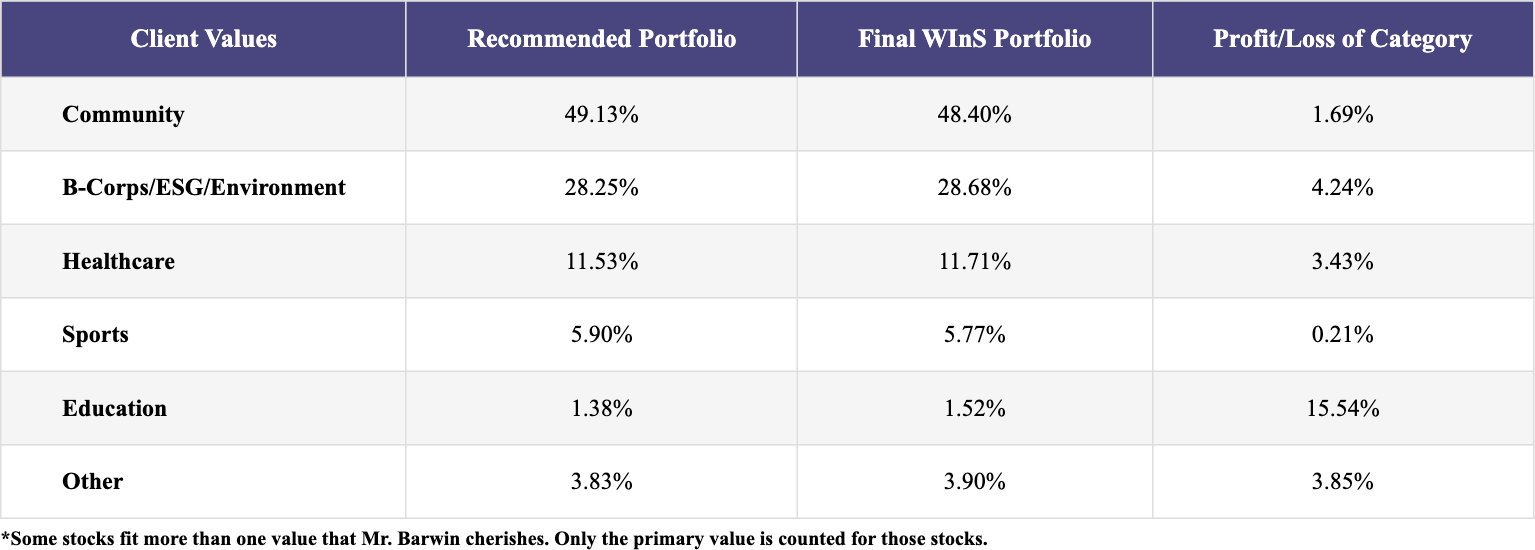
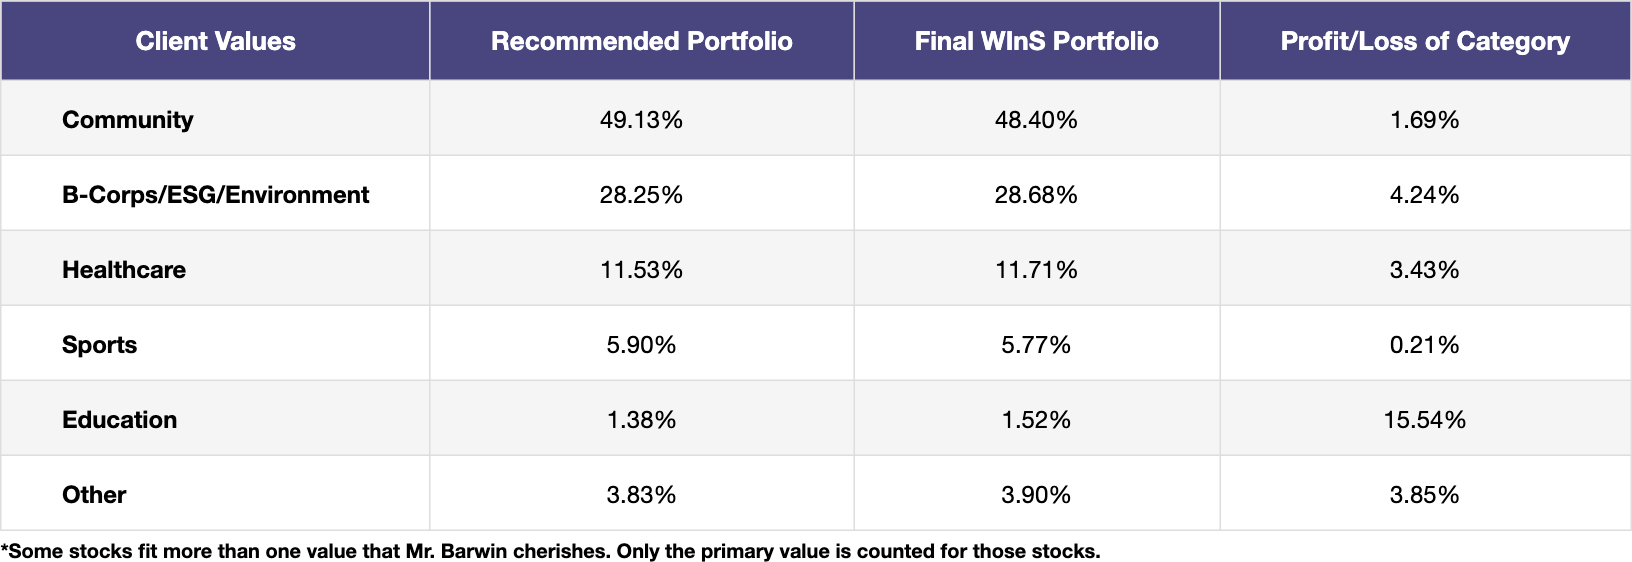
consisnet font for images

diff --git a/final-images/create_interest_table.py b/final-images/create_interest_table.py
@@ -19,8 +19,7 @@ def create_metrics_table(data, output_image='metrics_interest.png'):
     styles = [
         # Table wide settings
         {'selector': '', 'props': [
-            ('border-collapse', 'collapse'),
-            ('font-family', '"Times New Roman", Times, serif'), # Match image font
+            ('border-collapse', 'collapse')
         ]},
         # Header Styling
         {'selector': 'th', 'props': [
